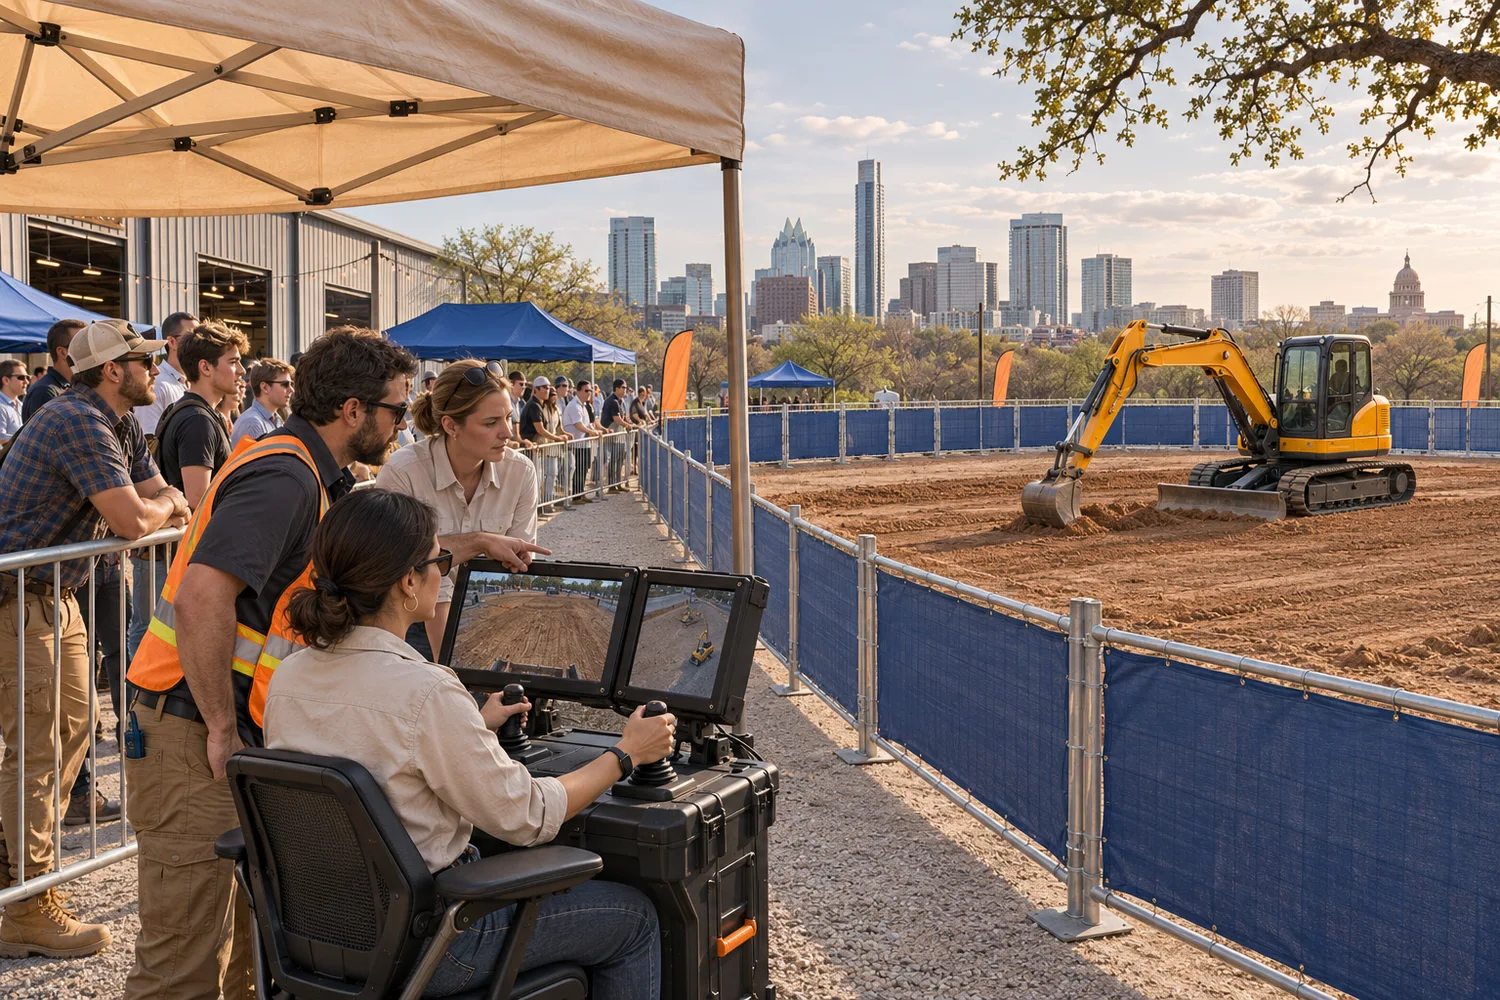
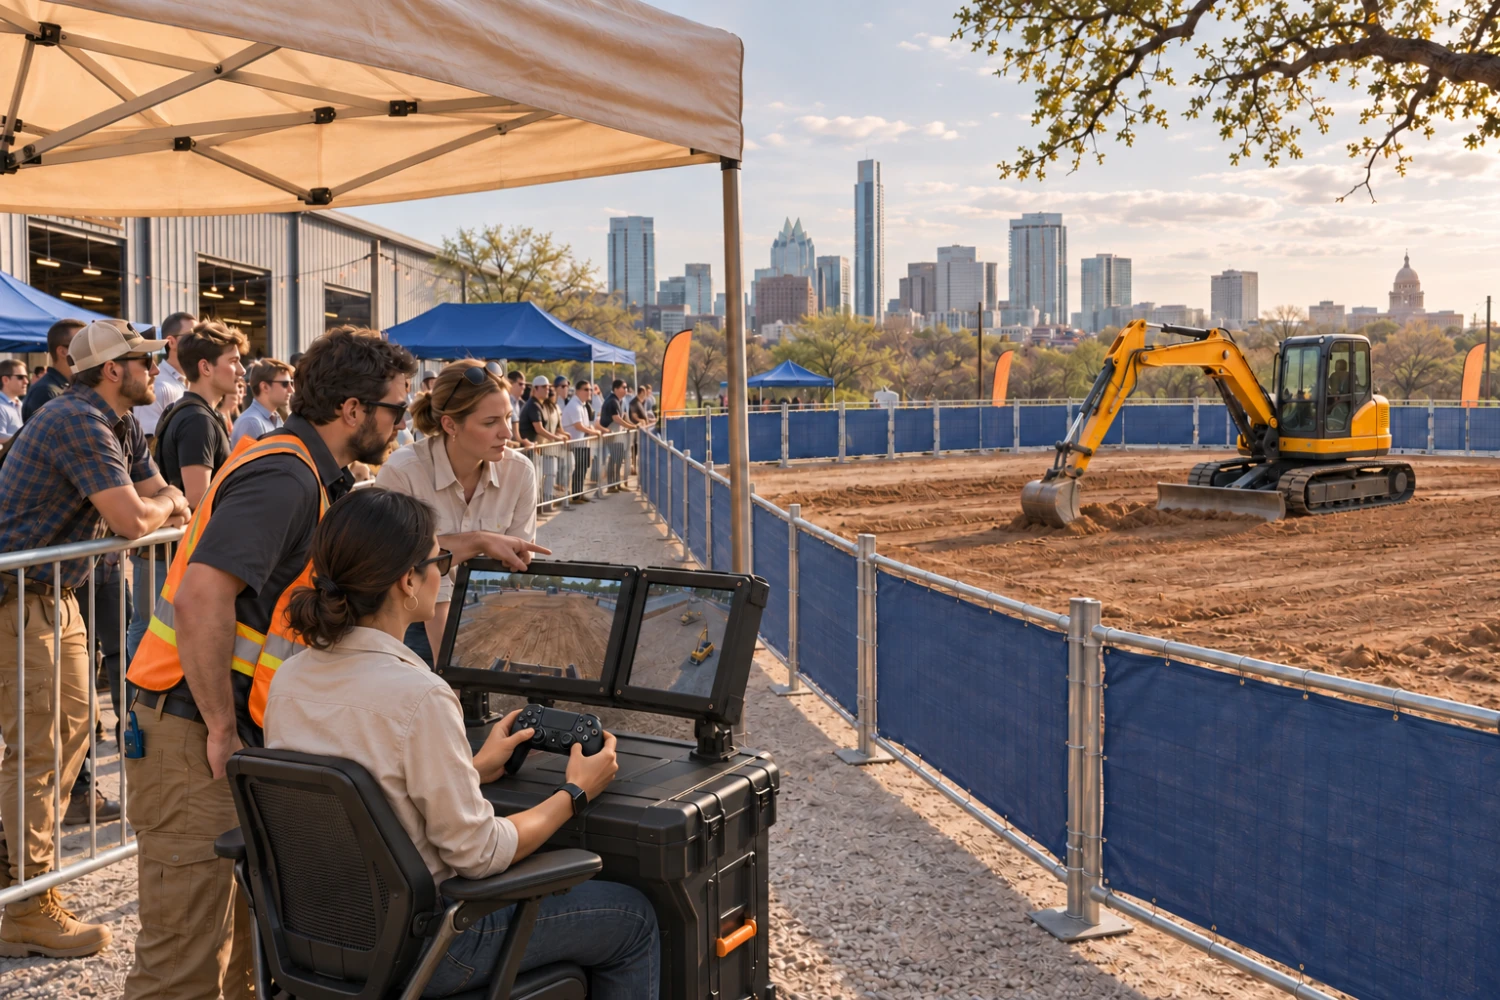
Show a black PlayStation controller in the demo rendering

diff --git a/public/terrafirma_activation_and_recruiting_plan/rsvp-preview.html b/public/terrafirma_activation_and_recruiting_plan/rsvp-preview.html
@@ -20,7 +20,7 @@
     <h1>Keep Austin Building.</h1>
     <p>TerraFirma Playground · East Austin · Proposed 5–9 p.m. Central</p>
     <p>Free admission. Date and location will be confirmed before registration opens.</p>
-    <figure><img src="./playground.webp" width="1500" height="1000" alt="Concept rendering of a coached excavator demo in Austin"></figure>
+    <figure><img src="./playground.webp?v=black-controller" width="1500" height="1000" alt="Concept rendering of a coached excavator demo using a black PlayStation controller"></figure>
 
     <section id="ticket-preview" class="ticket-panel" aria-labelledby="ticket-title">
       <h2 id="ticket-title">Free general admission</h2>

diff --git a/public/terrafirma_activation_and_recruiting_plan/index.html b/public/terrafirma_activation_and_recruiting_plan/index.html
@@ -42,7 +42,7 @@
       </div>
       <div class="experience-grid">
         <figure class="event-render">
-          <img src="./playground.webp" width="1500" height="1000" alt="Concept rendering of a guest operating a TerraFirma console at an outdoor viewing rail, with an excavator in the fenced bay." loading="lazy">
+          <img src="./playground.webp?v=black-controller" width="1500" height="1000" alt="Concept rendering of a guest using a black PlayStation controller to operate an excavator in a fenced demo bay." loading="lazy">
           <figcaption>Live-machine demo concept</figcaption>
         </figure>
         <div class="experience-copy">
